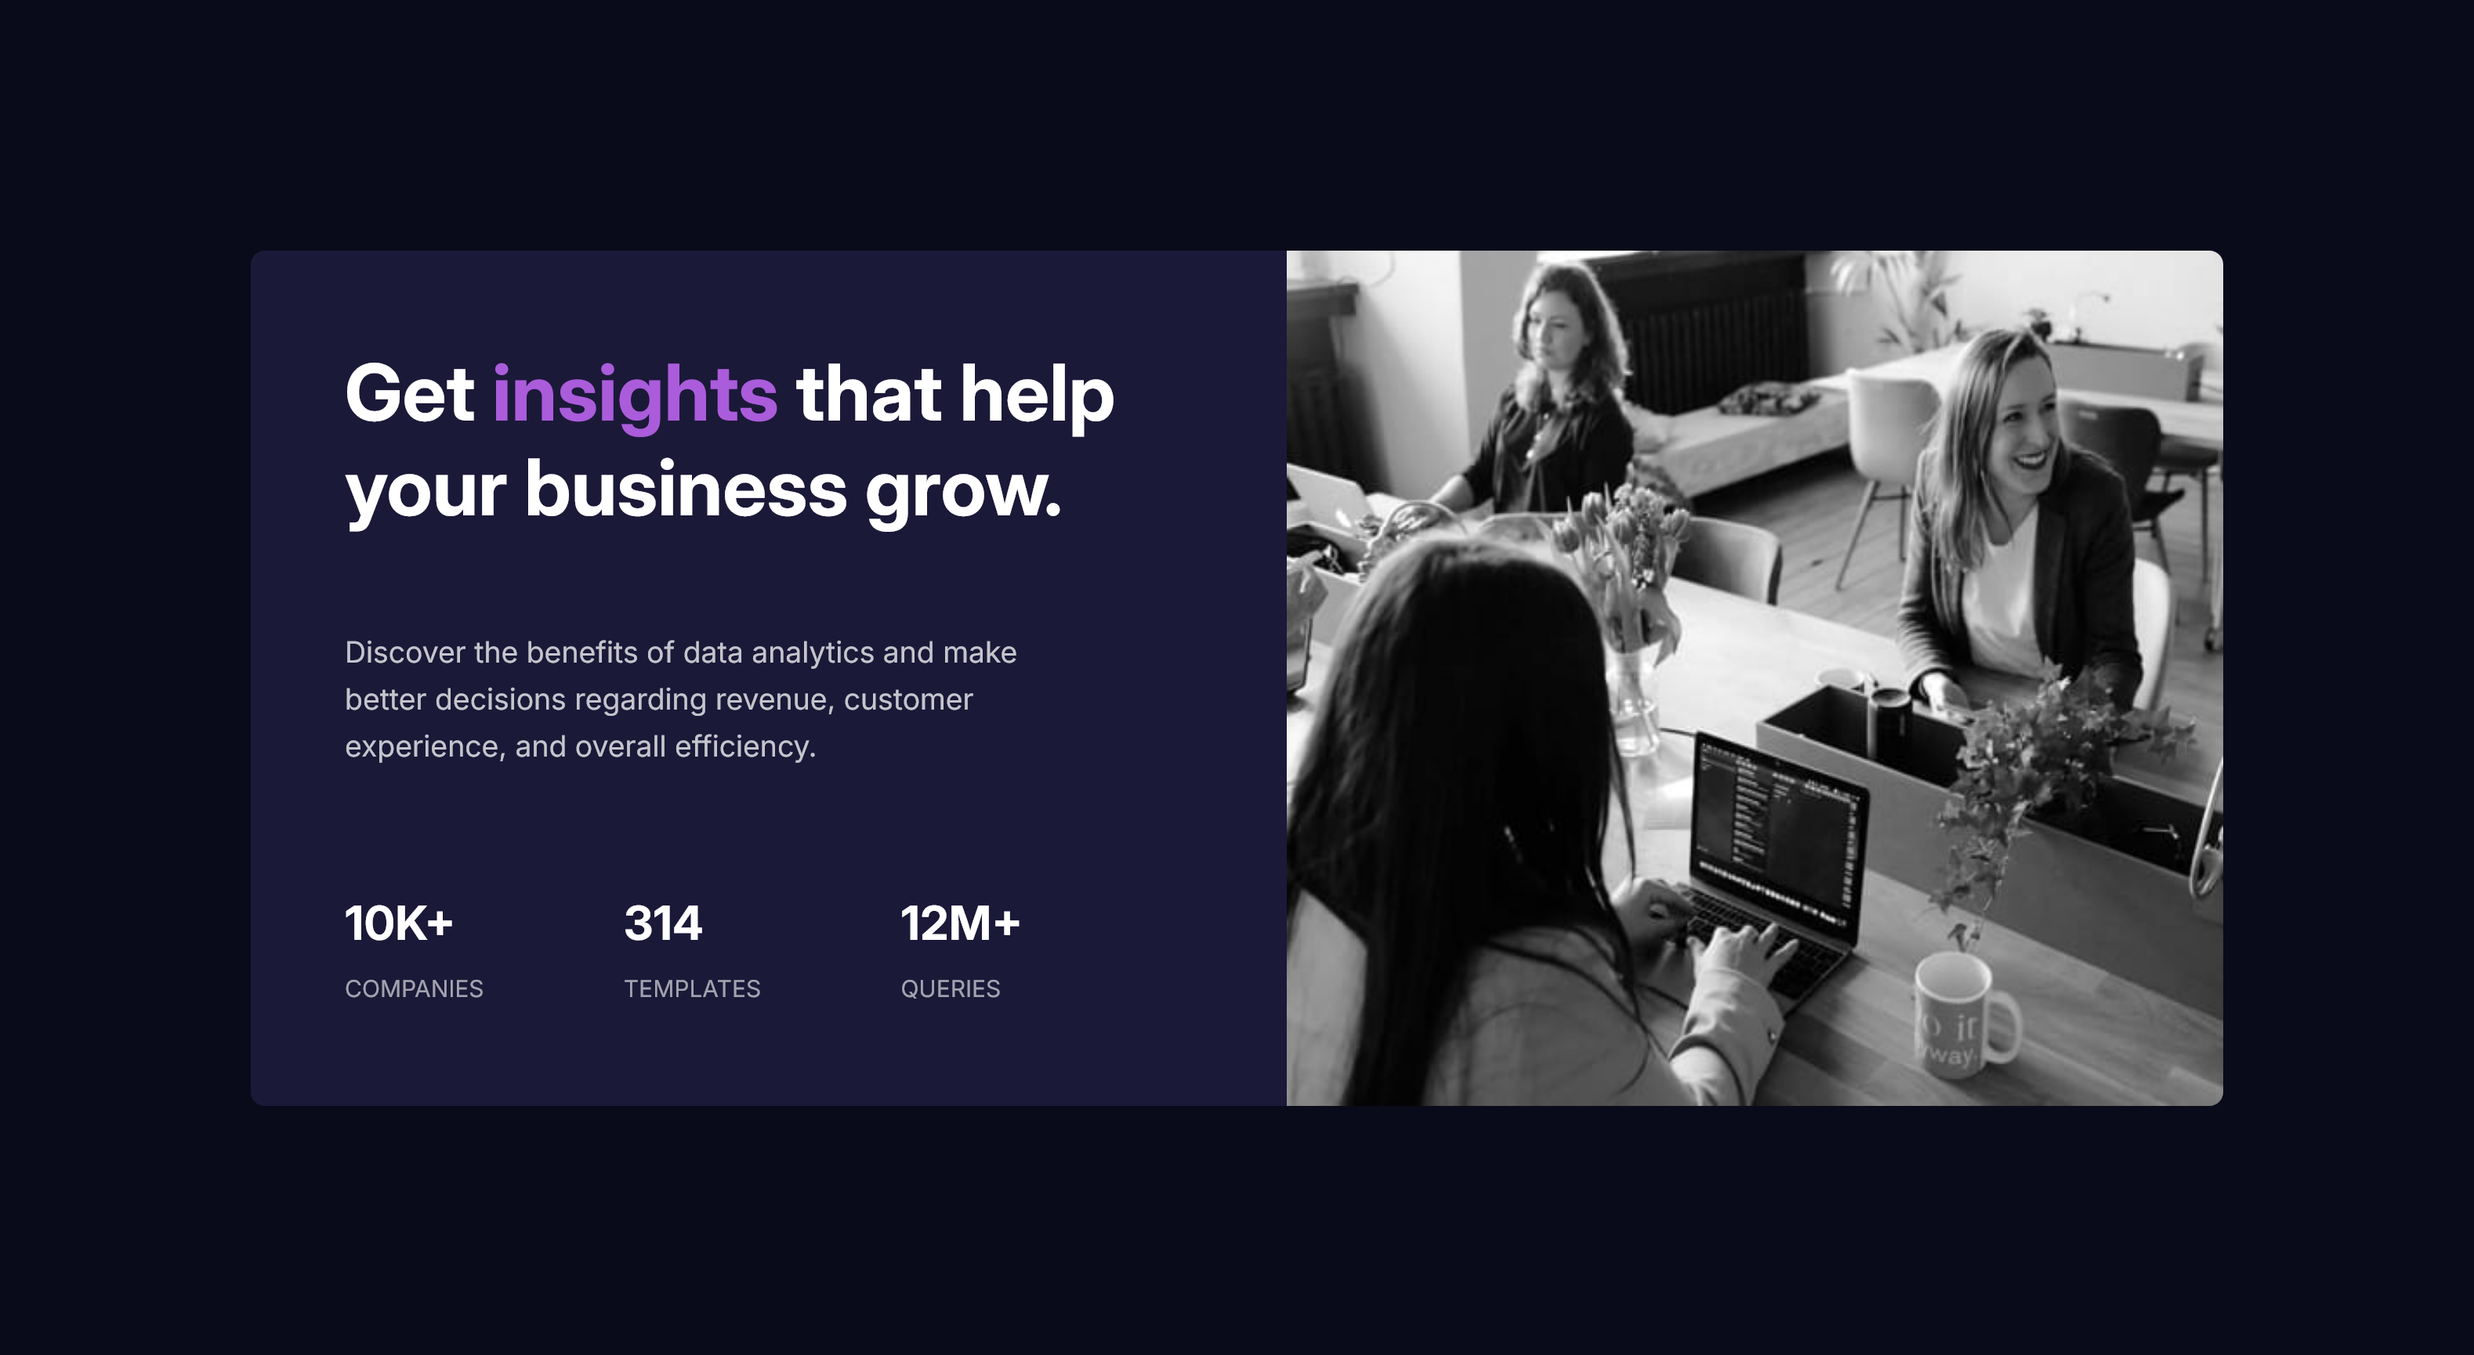
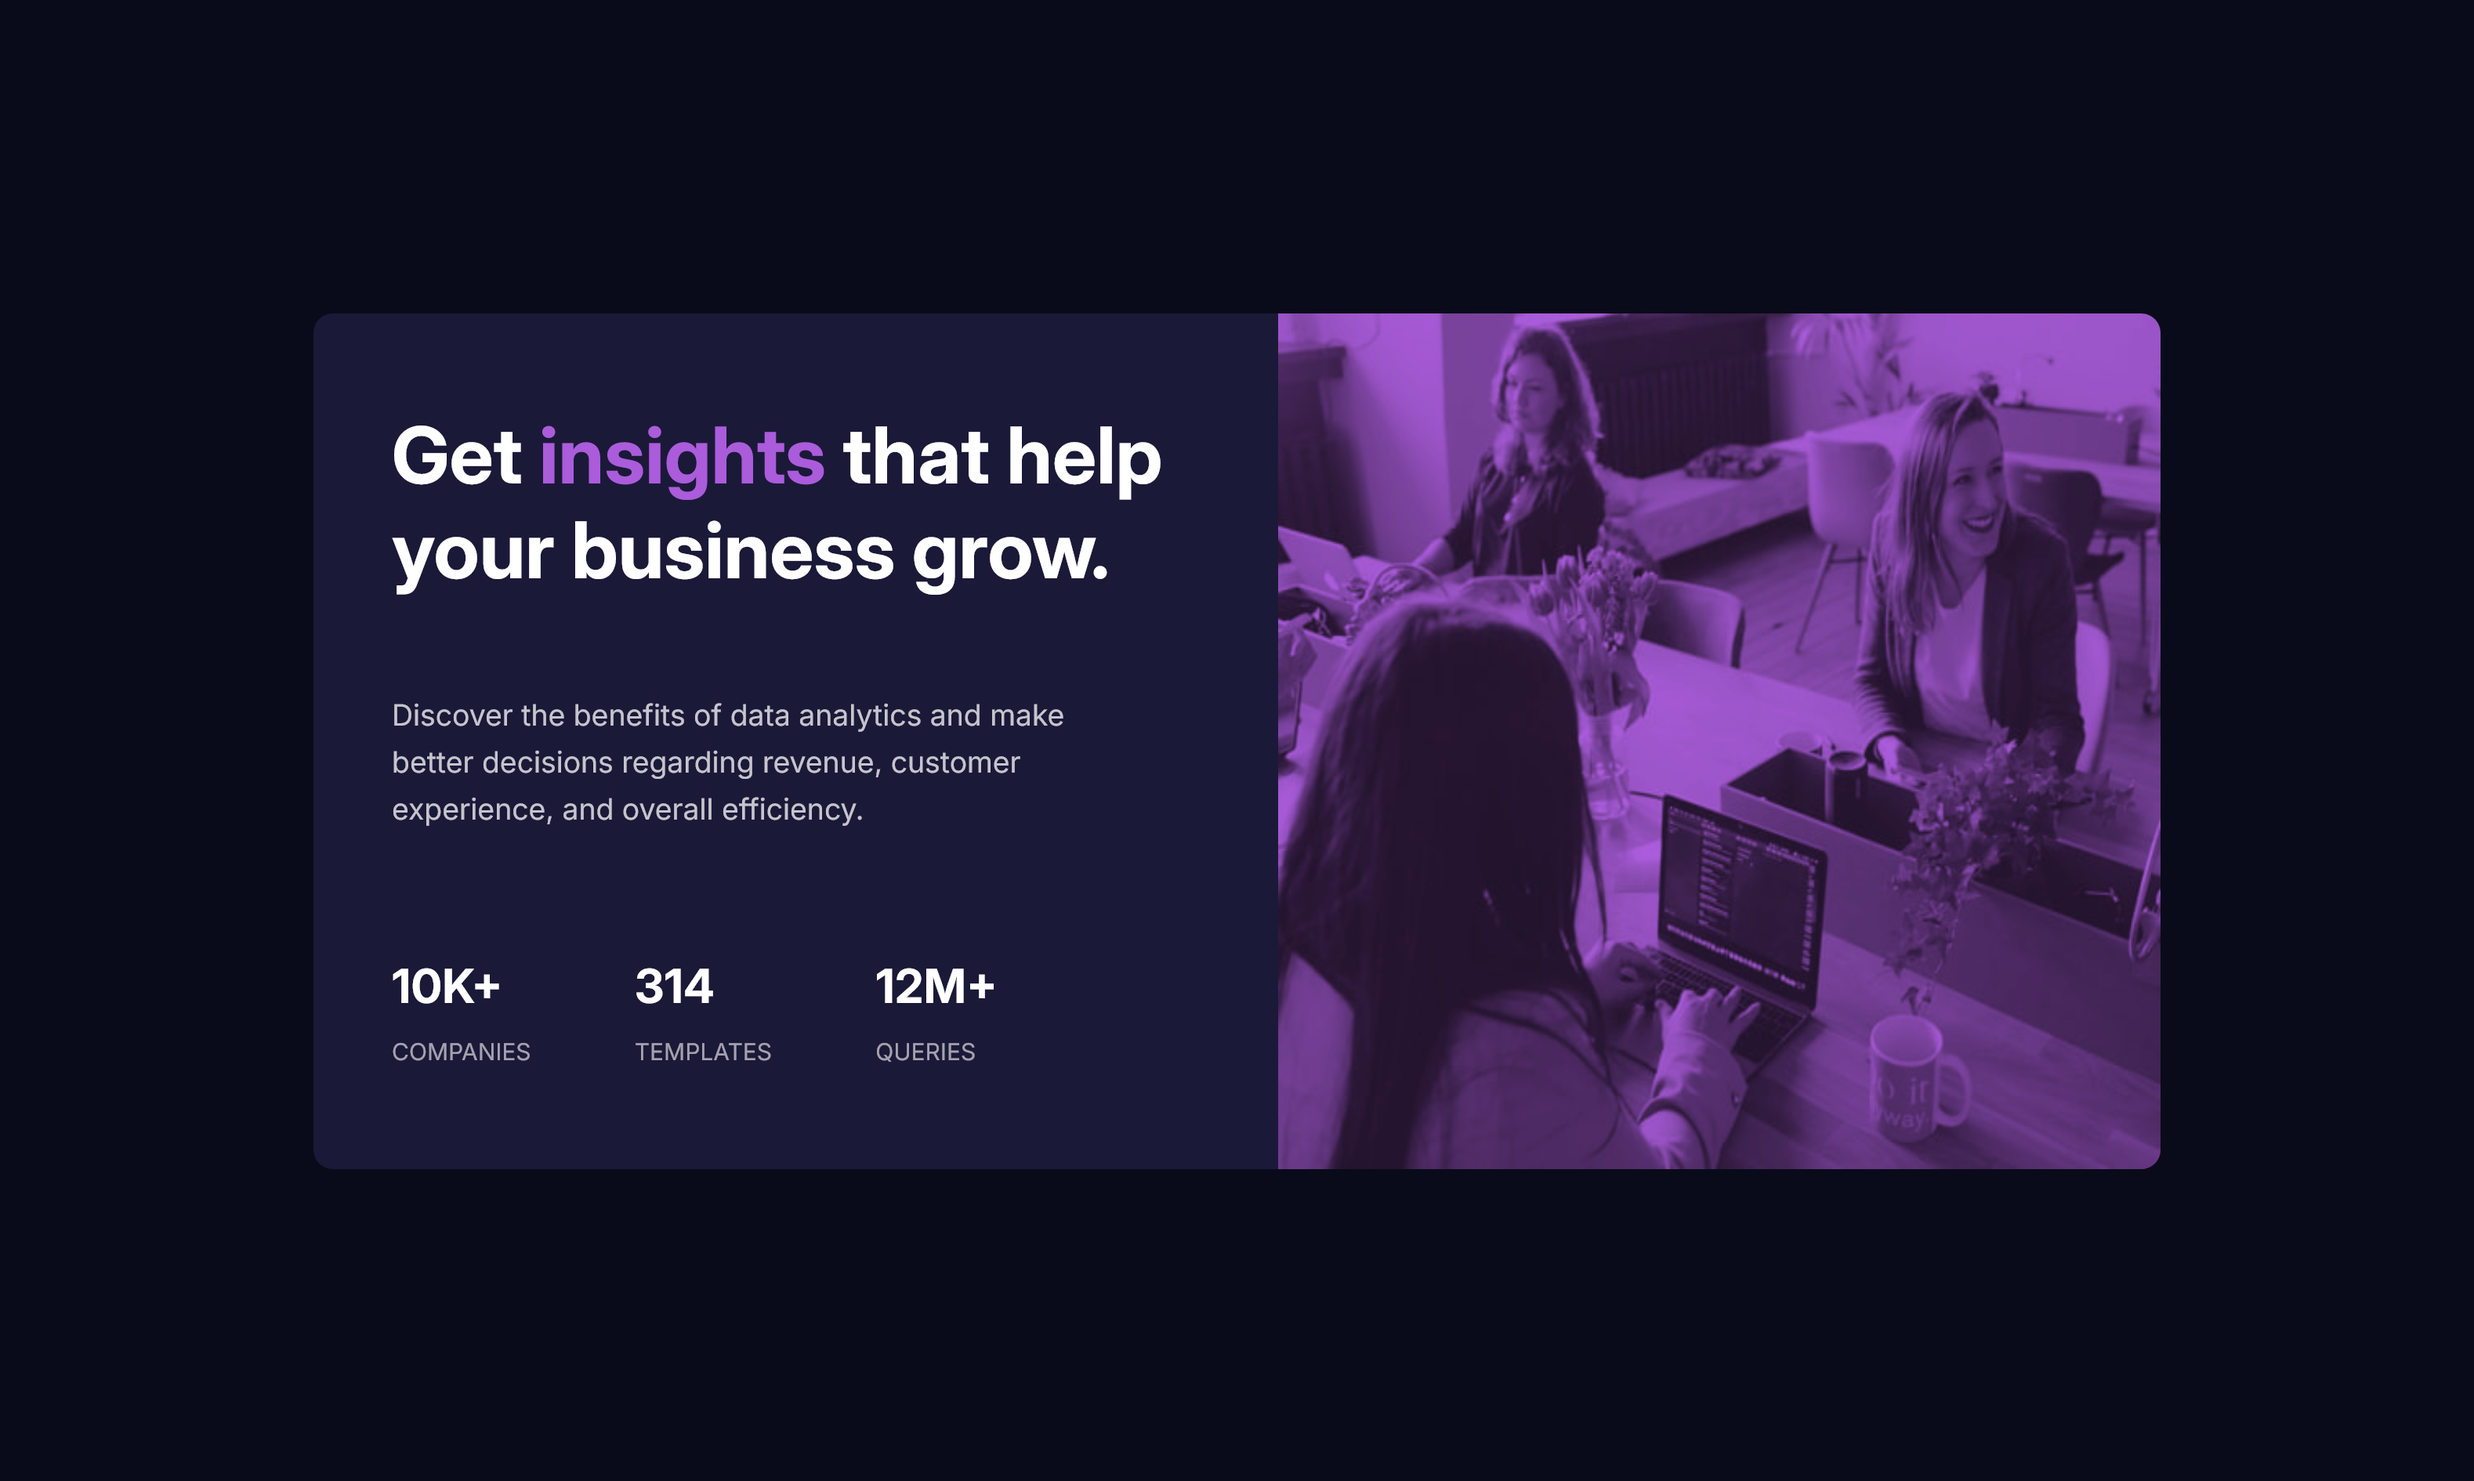
updated styles, screenshot and README

Changed region(s): [[0.0931, 0.1873, 0.9002, 0.8428], [0.2483, 0.6555, 0.3104, 0.7491], [0.3415, 0.6555, 0.4035, 0.7491]]

diff --git a/styles.css b/styles.css
@@ -10,22 +10,37 @@
     box-sizing: border-box;
 }
 
-img{
-    width: 100%;
-    margin: 0;
-    /* filter: ; */
-}
-
 body {
     font-family: 'Inter','Lexend Deca', sans-serif;
     font-size: 15px;
     background-color: hsl(233, 47%, 7%);
 }
 
+.bg-images{
+    width: 100%;
+    height: auto;
+    position: relative;
+    background-color: hsl(277, 64%, 61%);
+    display: flex;
+    justify-content: center;
+}
+
+img{
+    width: 100%;
+    height: 100%;
+    content: '';
+    margin: 0;
+    mix-blend-mode: multiply;
+    opacity: .80;
+    position: relative;
+    top: 0;
+    left: 0;
+}
+
 /* Common Styles */
 main {
     display: flex;
-    flex-direction: column;
+    flex-direction: row;
 }
 
 main .container{
@@ -72,12 +87,13 @@ main .stats p{
     color: hsla(0, 0%, 100%, 0.6);
     text-transform: uppercase;
     font-size: 0.75rem;
+    font-weight: 400;
 }
 
 /* Mobile Design */
 
 @media screen and (max-width: 768px) {
-    .bg-header{
+    .bg-desktop{
         display: none;
     }
 
@@ -90,16 +106,18 @@ main .stats p{
         align-items: center;
         justify-content: center;
     }
+
+    img,
+    .bg-images{
+        border-top-left-radius: 10px;
+        border-top-right-radius: 10px;
+    }  
     
-    img{
-        border-top-left-radius: 7px;
-        border-top-right-radius: 7px;
-    }
     .container{
         padding: 2rem 1.5rem;
         gap: 2rem;
-        border-bottom-left-radius: 7px;
-        border-bottom-right-radius: 7px;
+        border-bottom-left-radius: 10px;
+        border-bottom-right-radius: 10px;
     }
 
     main .container{
@@ -119,7 +137,7 @@ main .stats p{
         flex-direction: column;
         gap: 1.5rem;
     }
-
+    
     main .stats div{
         align-items: center;
     }
@@ -132,25 +150,26 @@ main .stats p{
         display: none ;
     }
     body {
-        padding: 8rem;
+        padding: 10rem;
     }
 
     main {
         flex-direction: row-reverse;
-        justify-content: center;
+        /* justify-content: center; */
     }
     
-    img{
-            border-bottom-right-radius:7px ;
-            border-top-right-radius:7px ;
-        }
+    img,
+    .bg-images{ 
+        border-bottom-right-radius: 10px;
+        border-top-right-radius: 10px;
+    }        
         
     main .container{
-        padding: 3rem;
+        padding: 3rem 2.5rem;
         width: 100%;
         gap: 3rem;
-        border-bottom-left-radius:7px ;
-        border-top-left-radius:7px ;
+        border-bottom-left-radius: 10px;
+        border-top-left-radius: 10px;
     }
 
     main h1{
@@ -161,6 +180,7 @@ main .stats p{
     main .paragraph{
         text-align: left;
         width: 350px;
+        min-width: 50%;
      }
 
      main .stats {

diff --git a/index.html b/index.html
@@ -13,8 +13,10 @@
 </head>
 <body>
  <main>
-  <img src="./images/image-header-desktop.jpg" alt="image" class="bg-header">
-  <img src="./images/image-header-mobile.jpg" alt="Mobile" class="bg-mobile">
+   <div class="bg-images">
+   <img src="./images/image-header-desktop.jpg" alt="image" class="bg-desktop">
+   <img src="./images/image-header-mobile.jpg" alt="Mobile" class="bg-mobile">
+  </div>
  <div class="container">
   <h1> Get <span>insights</span> that help your business grow.</h1>
  <p class="paragraph">
